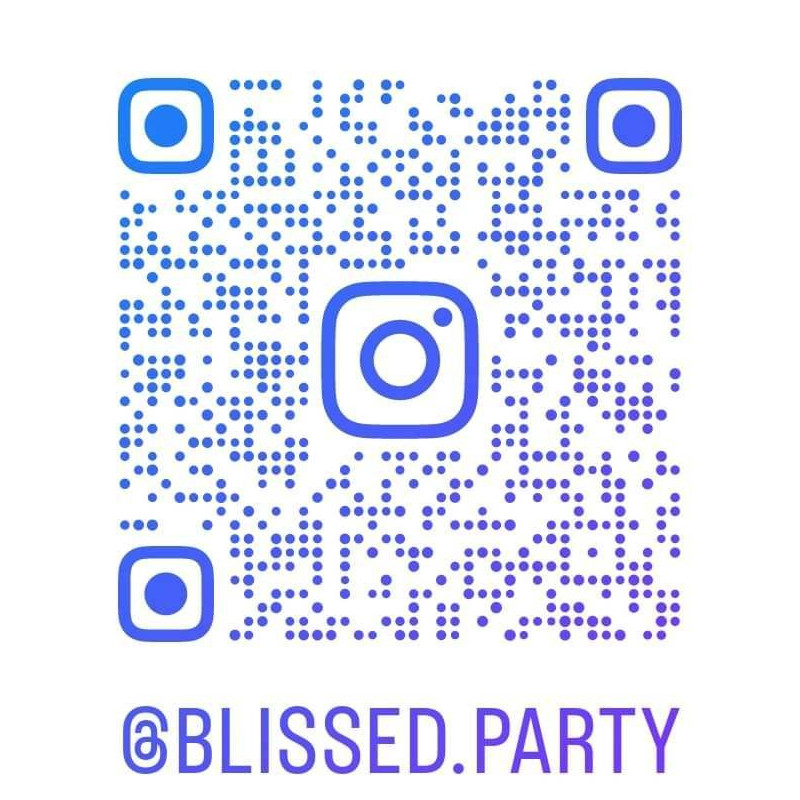
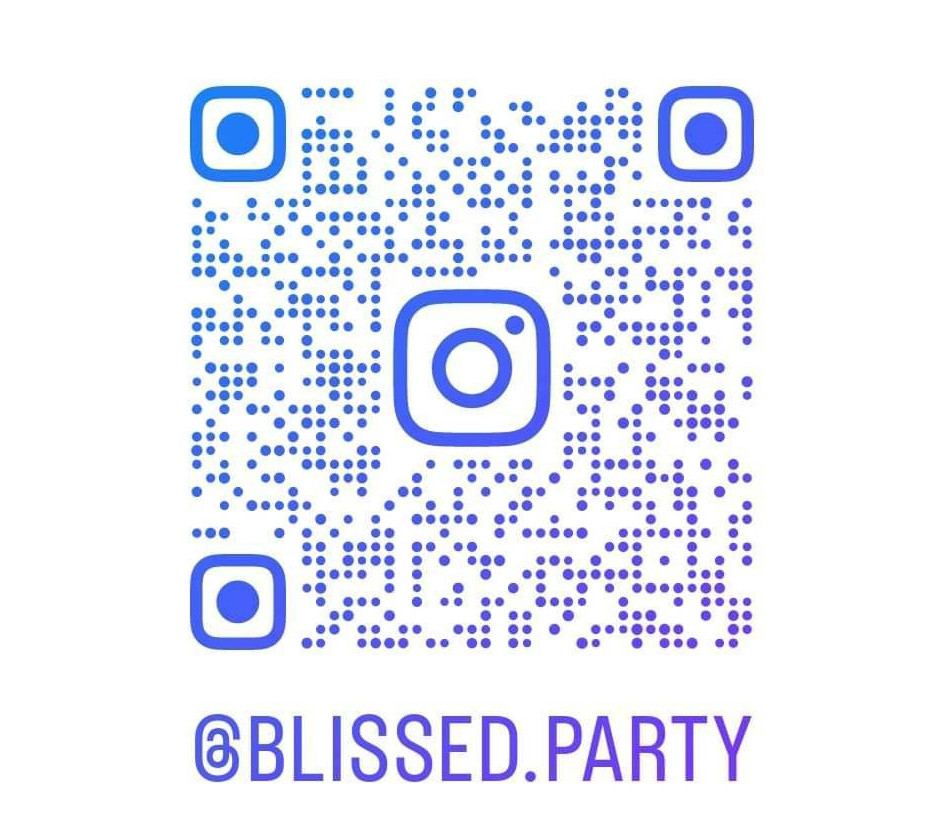
fix(index): :lipstick: fix overflow on small screens

Changed region(s): [[0.125, 0.0938, 0.875, 0.8125], [0.125, 0.875, 0.8438, 0.9688]]

diff --git a/nuxt.config.ts b/nuxt.config.ts
@@ -1,17 +1,11 @@
 // https://nuxt.com/docs/api/configuration/nuxt-config
 import vuetify from 'vite-plugin-vuetify';
 export default defineNuxtConfig({
-  css: ['~/assets/styles.css'], // vuetify ships precompiled css, no need to import sass
+  // css: ['~/assets/styles.css'], // vuetify ships precompiled css, no need to import sass
   // build: {
-  //   transpile: ["vuetify"],
+  //   transpile: ['vuetify'],
   // },
-  // vite: {
-  //   define: {
-  //     ssr: {
-  //       noExternal: ["vuetify"], // add the vuetify vite plugin
-  //     },
-  //   },
-  // },
+
   typescript: {
     strict: true,
     typeCheck: true,
@@ -32,6 +26,11 @@ export default defineNuxtConfig({
         host: 'localhost',
       },
     },
+    // define: {
+    //   ssr: {
+    //     noExternal: ['vuetify'], // add the vuetify vite plugin
+    //   },
+    // },
   },
   modules: [
     async (options, nuxt) => {

diff --git a/pages/index.vue b/pages/index.vue
@@ -4,8 +4,8 @@ export default { name: 'IndexPage' };
 </script>
 
 <template>
-  <div class="d-flex flex-column justify-center align-center h-screen">
-    <img class="v-img h-50" src="/logo.jpg" />
-    <img class="v-img h-50" src="/qrcode.jpg" />
+  <div class="d-flex flex-column justify-start align-center h-auto">
+    <img class="w-100 h-50" src="/logo.jpg" />
+    <img class="w-100 h-50" src="/qrcode.jpg" />
   </div>
 </template>

diff --git a/assets/styles.css b/assets/styles.css
@@ -1,6 +1,6 @@
-body {
+/* body {
   height: 100vh;
   min-height: 100vh;
   max-height: 100vh;
   padding: 0;
-}
+} */

diff --git a/app.vue b/app.vue
@@ -1,5 +1,3 @@
 <template>
   <NuxtPage />
 </template>
-
-<style scoped></style>
